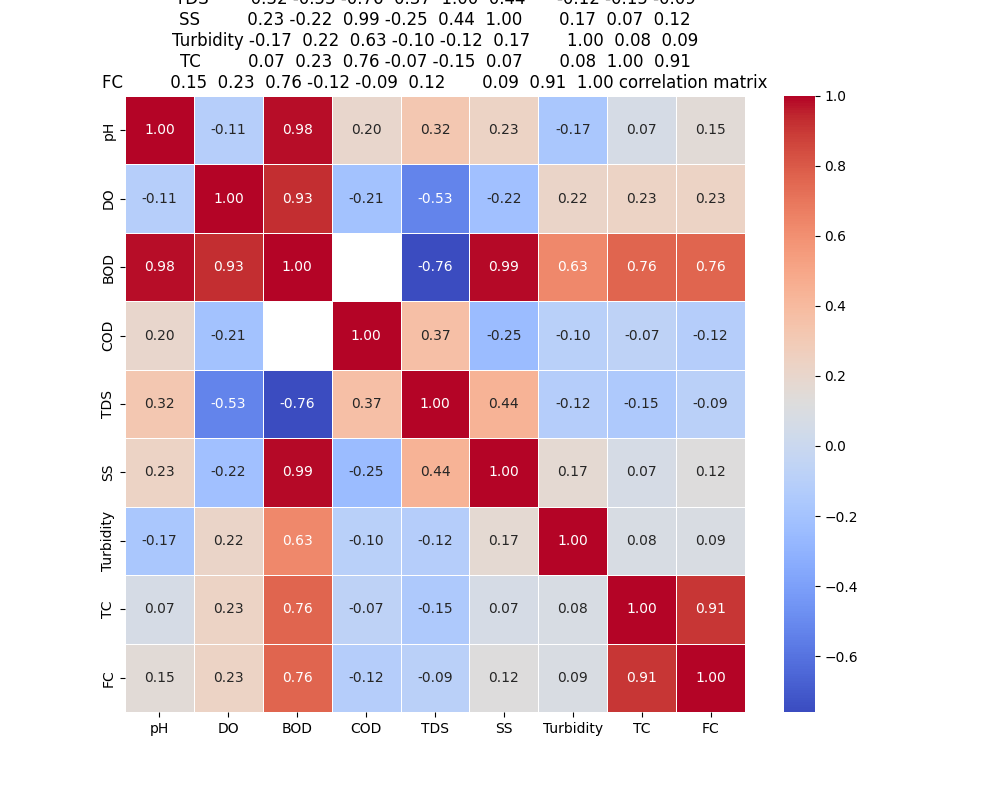
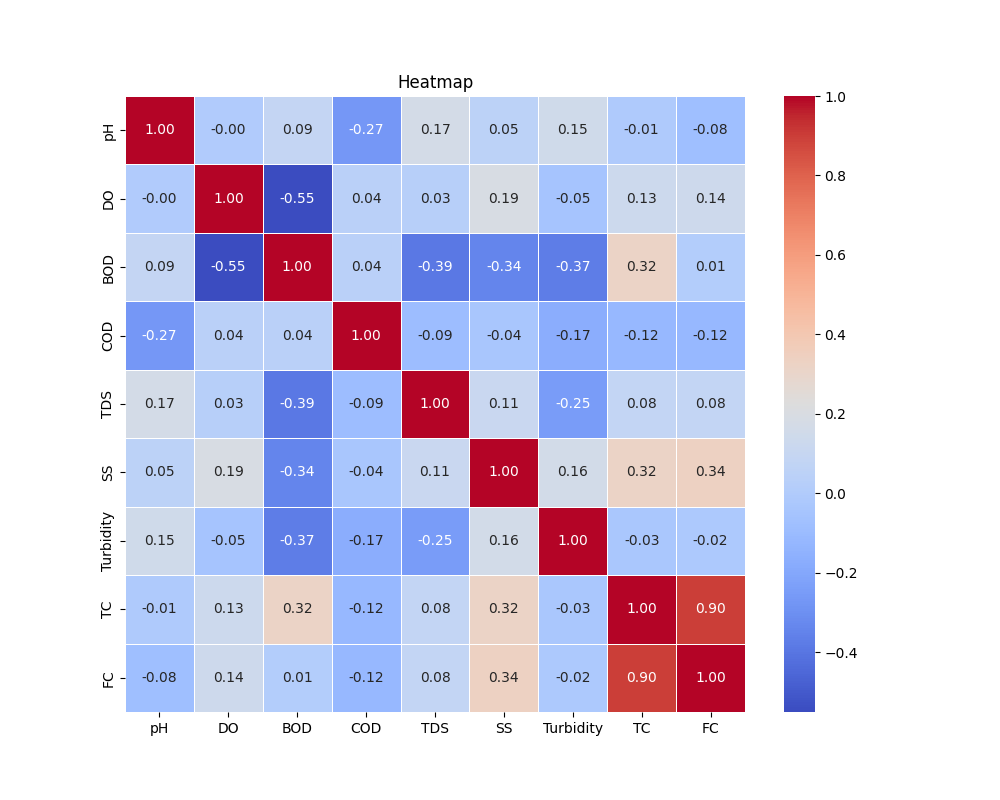
Added functionality to check multiple river heatmaps

diff --git a/backend/routes/api.py b/backend/routes/api.py
@@ -1,6 +1,26 @@
-from generate_heatmap import main as generate_heatmap_script
+import os
+from generate_heatmap import main as generate_heatmap_script  # Import `main` as `generate_heatmap_script`
 
-# Function to generate the heatmap
-def generate_heatmap():
-    generate_heatmap_script()  # Call the script to generate the heatmap
+def generate_heatmap(river):
+    # Define the directory where CSV files are located
+    data_dir = os.path.join(os.path.dirname(os.path.dirname(__file__)), 'data')
+    
+    # Map river names to CSV file names
+    river_files = {
+        'MANDOVI RIVER': 'df_format_data_MANDOVI_RIVER.csv',
+        'SAL RIVER': 'df_format_data_SAL_RIVER.csv',
+        'ZUARI RIVER': 'df_format_data_ZUARI_RIVER.csv'
+    }
+    
+    # Construct the full path to the CSV file
+    file_name = river_files.get(river)
+    if not file_name:
+        raise ValueError(f"No data file found for river: {river}")
+
+    file_path = os.path.join(data_dir, file_name)
+    if not os.path.exists(file_path):
+        raise ValueError(f"Data file for {river} not found at path: {file_path}")
+    
+    # Call `generate_heatmap_script` with the CSV file path
+    generate_heatmap_script(file_path)
     return 'backend/public/images/heatmap.png'

diff --git a/backend/generate_heatmap.py b/backend/generate_heatmap.py
@@ -1,28 +1,25 @@
-import os
 import pandas as pd
 import seaborn as sns
 import matplotlib.pyplot as plt
+import os
 import numpy as np
 
-# Set Matplotlib to use the 'Agg' backend for non-GUI rendering
 plt.switch_backend('Agg')
 
-# Function to generate and save heatmap
 def heatmap_matrix(df, matrix, filename="backend/public/images/heatmap.png"):
     output_dir = os.path.dirname(filename)
     if not os.path.exists(output_dir):
         os.makedirs(output_dir)
 
-    plt.figure(figsize=(10, 8))  # Set the figure size
+    plt.figure(figsize=(10, 8))
     sns.heatmap(matrix, annot=True, cmap="coolwarm", linewidths=0.5, fmt=".2f")
-    plt.title(f'Heatmap of {matrix} correlation matrix')
-    plt.savefig(filename)  # Save the figure as a file
-    plt.close()  # Close the plot to free up memory
+    plt.title(f'Heatmap')
+    plt.savefig(filename)
+    plt.close()
 
-def main():
-    # Read CSV file
-    csv_file_path = os.path.join(os.path.dirname(__file__), 'data', 'df_format_data_ZUARI_RIVER.csv')
-    df = pd.read_csv(csv_file_path)
+def main(file_path):
+    # Read the CSV file for the selected river
+    df = pd.read_csv(file_path)
 
     # Replace 'BDL' with NaN
     df.replace('BDL', np.nan, inplace=True)

diff --git a/backend/app.py b/backend/app.py
@@ -1,9 +1,9 @@
-from flask import Flask, send_file, jsonify
-from flask_cors import CORS  # Import CORS
+from flask import Flask, send_file, jsonify, request
+from flask_cors import CORS
 from routes.api import generate_heatmap
 
 app = Flask(__name__)
-CORS(app)  # Enable CORS for the entire app
+CORS(app)
 
 @app.route('/')
 def index():
@@ -11,8 +11,11 @@ def index():
 
 @app.route('/generate-heatmap', methods=['GET'])
 def get_heatmap():
+    river = request.args.get('river')
+    if not river:
+        return jsonify({'error': 'No river specified'}), 400
     try:
-        image_path = generate_heatmap()  # Call the imported function
+        image_path = generate_heatmap(river)  # Pass the river parameter
         return send_file(image_path, mimetype='image/png')
     except Exception as e:
         return jsonify({'error': str(e)}), 500
